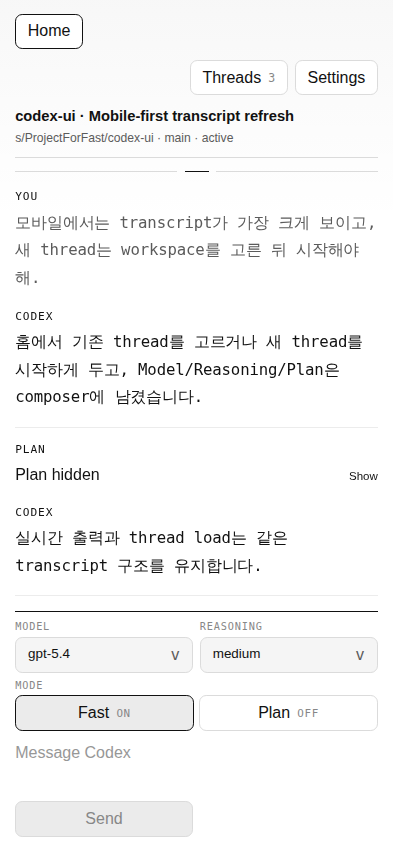
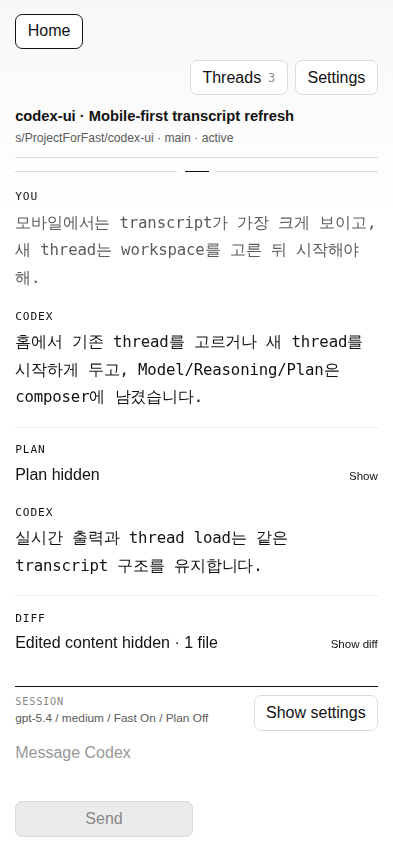
Add mobile composer settings toggle

diff --git a/src/components/codex-shell/composer-dock.tsx b/src/components/codex-shell/composer-dock.tsx
@@ -1,6 +1,6 @@
 "use client";
 
-import { type KeyboardEventHandler, type RefObject } from "react";
+import { useEffect, useState, type KeyboardEventHandler, type RefObject } from "react";
 
 import type { SlashCommandDefinition } from "@/lib/shared";
 
@@ -20,6 +20,8 @@ type ComposerDockProps = {
   canSubmit: boolean;
   activeTurn: boolean;
   showToolbar?: boolean;
+  isPhoneLayout: boolean;
+  sessionSummary: string;
   selectedModel: string;
   selectedEffort: string;
   planMode: boolean;
@@ -33,6 +35,9 @@ type ComposerDockProps = {
     plan: string;
     on: string;
     off: string;
+    session: string;
+    showSettings: string;
+    hideSettings: string;
     placeholder: string;
     interrupt: string;
     send: string;
@@ -109,6 +114,8 @@ export function ComposerDock({
   canSubmit,
   activeTurn,
   showToolbar = true,
+  isPhoneLayout,
+  sessionSummary,
   selectedModel,
   selectedEffort,
   planMode,
@@ -124,6 +131,14 @@ export function ComposerDock({
   onSubmit,
   onInterrupt,
 }: ComposerDockProps) {
+  const [mobileSessionExpanded, setMobileSessionExpanded] = useState(!isPhoneLayout);
+
+  useEffect(() => {
+    setMobileSessionExpanded(!isPhoneLayout);
+  }, [isPhoneLayout]);
+
+  const showSessionControls = !isPhoneLayout || mobileSessionExpanded;
+
   return (
     <section className="composer-dock">
       {visibleCommands.length > 0 ? (
@@ -146,54 +161,78 @@ export function ComposerDock({
       ) : null}
 
       <div className="composer-frame">
-        <div className="composer-controls" role="group" aria-label={labels.mode}>
-          <SessionSelectField
-            id="composer-model"
-            label={labels.model}
-            value={selectedModel}
-            options={modelOptions}
-            unavailableLabel={labels.unavailable}
-            selectRef={modelSelectRef}
-            onChange={onModelChange}
-          />
+        {isPhoneLayout ? (
+          <div className="composer-mobile-session">
+            <div className="composer-mobile-session-copy">
+              <span className="composer-control-label">{labels.session}</span>
+              <span className="composer-mobile-session-summary" title={sessionSummary}>
+                {sessionSummary}
+              </span>
+            </div>
 
-          <SessionSelectField
-            id="composer-effort"
-            label={labels.reasoning}
-            value={selectedEffort}
-            options={effortOptions}
-            unavailableLabel={labels.unavailable}
-            onChange={onEffortChange}
-          />
+            <button
+              className="plain-action composer-mobile-session-toggle"
+              type="button"
+              aria-expanded={mobileSessionExpanded}
+              onClick={() => {
+                setMobileSessionExpanded((current) => !current);
+              }}
+            >
+              {mobileSessionExpanded ? labels.hideSettings : labels.showSettings}
+            </button>
+          </div>
+        ) : null}
 
-          <div className="composer-mode-field" role="group" aria-label={labels.mode}>
-            <span className="composer-control-label">{labels.mode}</span>
-            <div className="composer-mode-group">
-              <button
-                className={`picker-chip ${planMode ? "" : "selected"}`}
-                type="button"
-                aria-pressed={!planMode}
-                onClick={() => onModeChange(false)}
-              >
-                <span>{labels.fast}</span>
-                <span className="composer-mode-state">
-                  {planMode ? labels.off : labels.on}
-                </span>
-              </button>
-              <button
-                className={`picker-chip ${planMode ? "selected" : ""}`}
-                type="button"
-                aria-pressed={planMode}
-                onClick={() => onModeChange(true)}
-              >
-                <span>{labels.plan}</span>
-                <span className="composer-mode-state">
-                  {planMode ? labels.on : labels.off}
-                </span>
-              </button>
+        {showSessionControls ? (
+          <div className="composer-controls" role="group" aria-label={labels.mode}>
+            <SessionSelectField
+              id="composer-model"
+              label={labels.model}
+              value={selectedModel}
+              options={modelOptions}
+              unavailableLabel={labels.unavailable}
+              selectRef={modelSelectRef}
+              onChange={onModelChange}
+            />
+
+            <SessionSelectField
+              id="composer-effort"
+              label={labels.reasoning}
+              value={selectedEffort}
+              options={effortOptions}
+              unavailableLabel={labels.unavailable}
+              onChange={onEffortChange}
+            />
+
+            <div className="composer-mode-field" role="group" aria-label={labels.mode}>
+              <span className="composer-control-label">{labels.mode}</span>
+              <div className="composer-mode-group">
+                <button
+                  className={`picker-chip ${planMode ? "" : "selected"}`}
+                  type="button"
+                  aria-pressed={!planMode}
+                  onClick={() => onModeChange(false)}
+                >
+                  <span>{labels.fast}</span>
+                  <span className="composer-mode-state">
+                    {planMode ? labels.off : labels.on}
+                  </span>
+                </button>
+                <button
+                  className={`picker-chip ${planMode ? "selected" : ""}`}
+                  type="button"
+                  aria-pressed={planMode}
+                  onClick={() => onModeChange(true)}
+                >
+                  <span>{labels.plan}</span>
+                  <span className="composer-mode-state">
+                    {planMode ? labels.on : labels.off}
+                  </span>
+                </button>
+              </div>
             </div>
           </div>
-        </div>
+        ) : null}
 
         <div className="composer-input-row">
           <textarea

diff --git a/src/components/codex-shell.tsx b/src/components/codex-shell.tsx
@@ -1052,6 +1052,14 @@ export function CodexShell({ demoMode = false }: CodexShellProps) {
   ]
     .filter(Boolean)
     .join(" / ");
+  const composerSessionSummary = [
+    selectedModelLabel,
+    selectedEffortLabel,
+    `${copy.composer.fast} ${selectedPlanMode ? copy.composer.off : copy.composer.on}`,
+    `${copy.composer.plan} ${selectedPlanMode ? copy.composer.on : copy.composer.off}`,
+  ]
+    .filter(Boolean)
+    .join(" / ");
   const workspacePickerOptions = useMemo(() => {
     const draftPath = workspaceDraft.trim();
     const options = [...(snapshot?.workspaceOptions ?? [])];
@@ -1613,6 +1621,8 @@ export function CodexShell({ demoMode = false }: CodexShellProps) {
             canSubmit={Boolean(composer.trim())}
             activeTurn={Boolean(snapshot?.activeTurnId)}
             showToolbar={!hidePhoneIdleChrome}
+            isPhoneLayout={isPhoneLayout}
+            sessionSummary={composerSessionSummary}
             selectedModel={selectedModelValue}
             selectedEffort={selectedEffortValue}
             planMode={selectedPlanMode}
@@ -1626,6 +1636,9 @@ export function CodexShell({ demoMode = false }: CodexShellProps) {
               plan: copy.composer.plan,
               on: copy.composer.on,
               off: copy.composer.off,
+              session: copy.composer.session,
+              showSettings: copy.composer.showSettings,
+              hideSettings: copy.composer.hideSettings,
               placeholder: copy.composer.placeholder,
               interrupt: copy.composer.interrupt,
               send: copy.composer.send,

diff --git a/app/globals.css b/app/globals.css
@@ -786,6 +786,31 @@ pre {
   box-shadow: inset 0 1px 0 var(--line-strong);
 }
 
+.composer-mobile-session,
+.composer-mobile-session-copy {
+  display: grid;
+}
+
+.composer-mobile-session {
+  grid-template-columns: minmax(0, 1fr) auto;
+  gap: 0.55rem 0.8rem;
+  align-items: start;
+}
+
+.composer-mobile-session-copy {
+  gap: 0.18rem;
+}
+
+.composer-mobile-session-summary {
+  color: var(--muted);
+  font-size: 0.8rem;
+  line-height: 1.55;
+}
+
+.composer-mobile-session-toggle {
+  align-self: center;
+}
+
 .composer-controls {
   display: flex;
   flex-wrap: wrap;
@@ -1559,6 +1584,21 @@ pre {
   .composer-frame {
     gap: 0.55rem;
     padding-top: 0.55rem;
+  }
+
+  .composer-mobile-session {
+    gap: 0.45rem 0.65rem;
+  }
+
+  .composer-mobile-session-summary {
+    font-size: 0.74rem;
+    line-height: 1.5;
+  }
+
+  .composer-mobile-session-toggle {
+    min-height: 1.9rem;
+    padding-inline: 0.7rem;
+    white-space: nowrap;
   }
 
   .composer-controls {

diff --git a/src/components/codex-shell/copy.ts b/src/components/codex-shell/copy.ts
@@ -51,6 +51,8 @@ const UI_COPY = {
         "Arrow keys move. Enter runs. Tab completes. Esc hides.",
       helperStreaming: "Streaming live. Diffs stay folded until opened.",
       helperIdle: "/ commands. Enter sends. Shift+Enter adds a newline.",
+      showSettings: "Show settings",
+      hideSettings: "Hide settings",
       sessionAria: (
         selectedModelLabel: string,
         selectedEffortLabel: string,
@@ -325,6 +327,8 @@ const UI_COPY = {
         "방향키로 이동하고 Enter로 실행합니다. Tab으로 완성하고 Esc로 닫습니다.",
       helperStreaming: "실시간 스트리밍 중입니다. diff는 펼칠 때까지 접혀 있습니다.",
       helperIdle: "/ 명령어 사용 가능. Enter 전송, Shift+Enter 줄바꿈.",
+      showSettings: "설정 펼치기",
+      hideSettings: "설정 숨기기",
       sessionAria: (
         selectedModelLabel: string,
         selectedEffortLabel: string,
